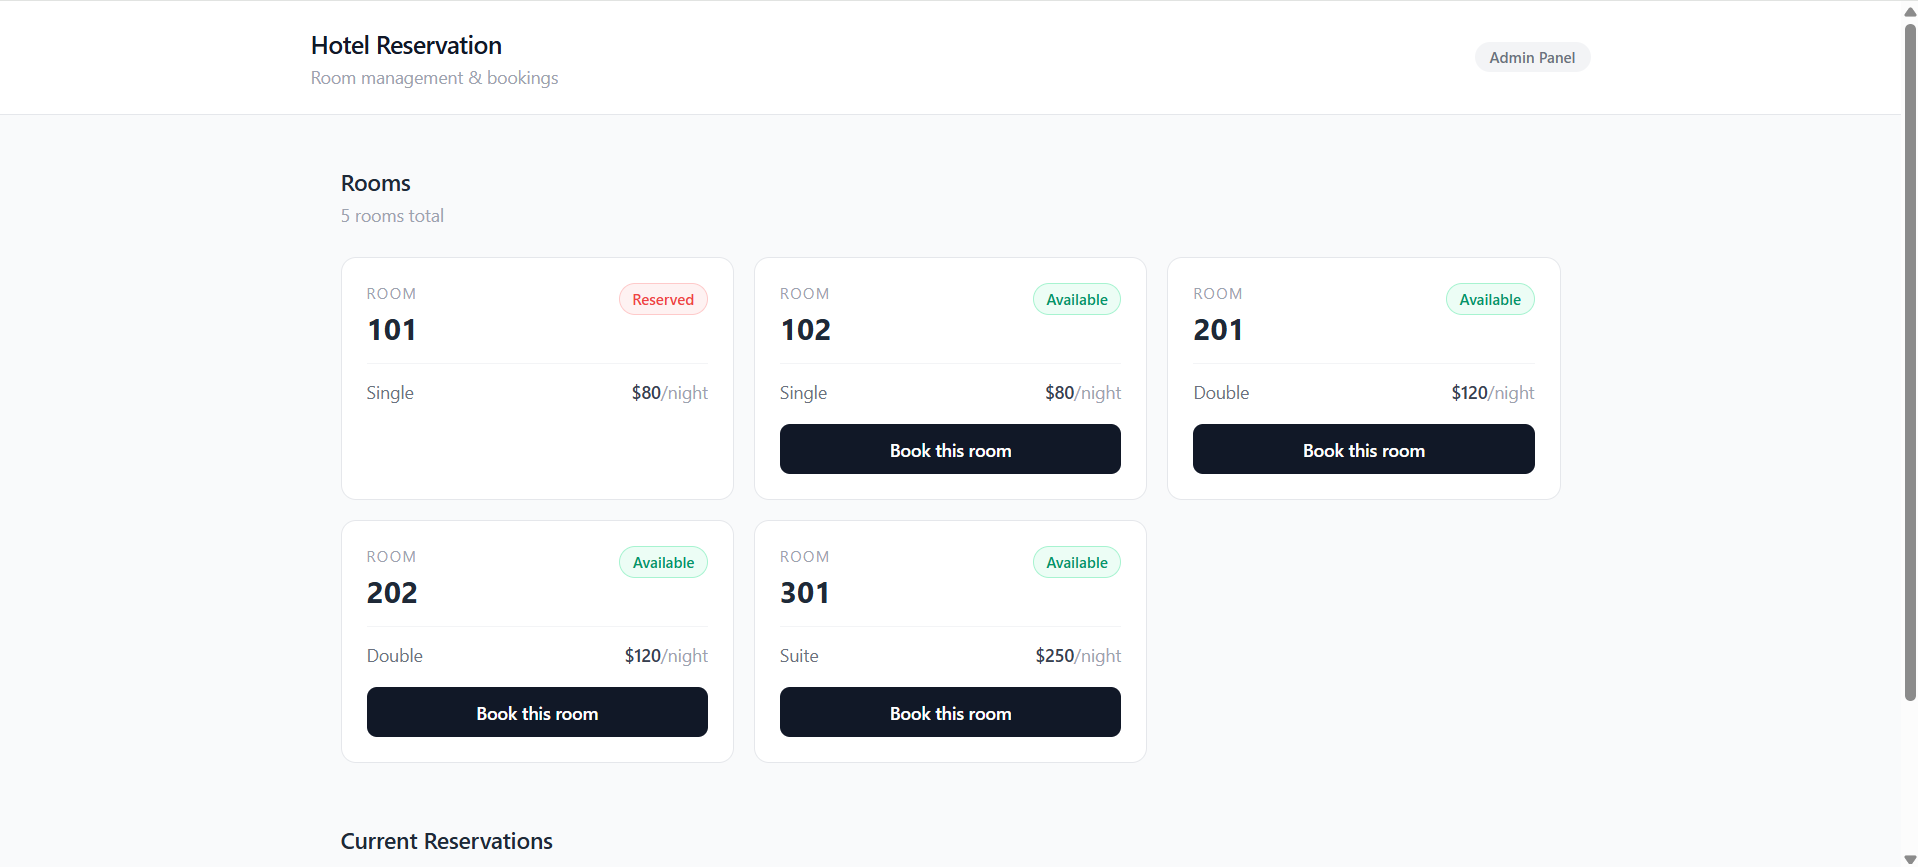
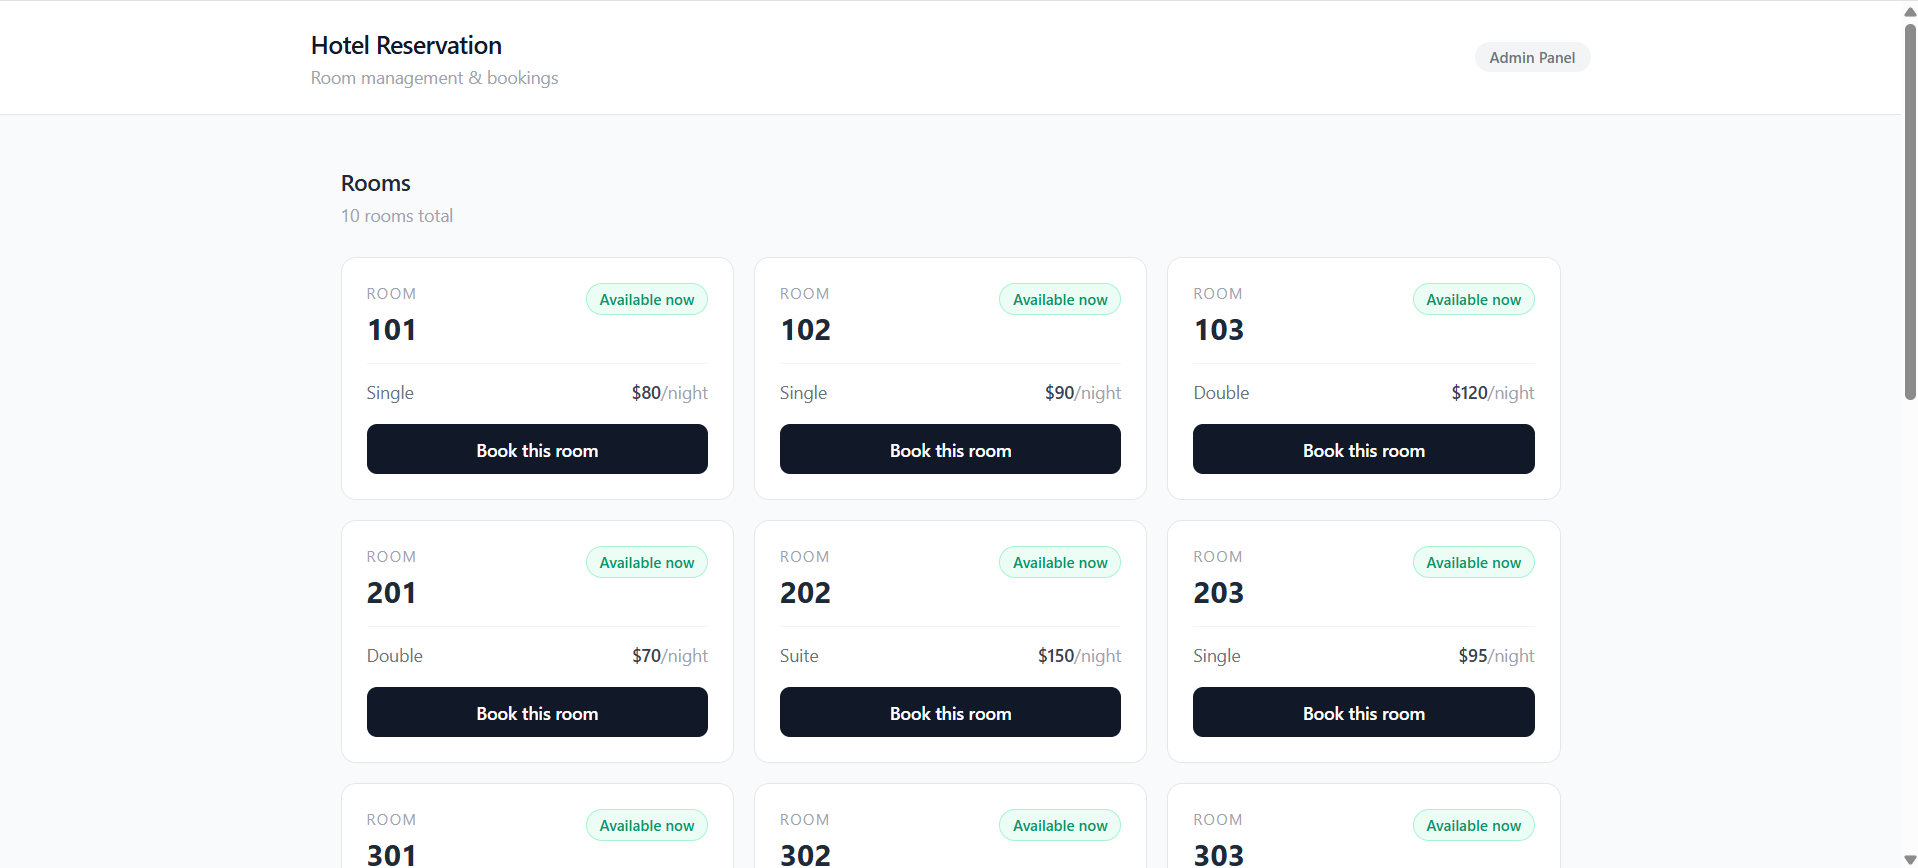
Fixed the single room - single reservation only issue

diff --git a/src/components/RoomList.jsx b/src/components/RoomList.jsx
@@ -31,23 +31,24 @@ export default function RoomList({ onSelectRoom }) {
                   ? "bg-emerald-50 text-emerald-600 border-emerald-200"
                   : "bg-red-50 text-red-500 border-red-200"
               }`}>
-                {room.isAvailable ? "Available" : "Reserved"}
+                {room.isAvailable ? "Available now" : "Occupied now"}
               </span>
             </div>
 
             <div className="flex items-center justify-between text-sm text-gray-500 border-t border-gray-100 pt-3">
               <span>{room.type}</span>
-              <span className="font-semibold text-gray-700">${room.pricePerNight}<span className="font-normal text-gray-400">/night</span></span>
+              <span className="font-semibold text-gray-700">
+                ${room.pricePerNight}
+                <span className="font-normal text-gray-400">/night</span>
+              </span>
             </div>
 
-            {room.isAvailable && (
-              <button
-                onClick={() => onSelectRoom(room)}
-                className="w-full mt-1 bg-gray-900 hover:bg-gray-700 text-white text-sm font-medium py-2.5 rounded-lg transition-colors"
-              >
-                Book this room
-              </button>
-            )}
+            <button
+              onClick={() => onSelectRoom(room)}
+              className="w-full mt-1 bg-gray-900 hover:bg-gray-700 text-white text-sm font-medium py-2.5 rounded-lg transition-colors"
+            >
+              Book this room
+            </button>
           </div>
         ))}
       </div>

diff --git a/public/index.html b/public/index.html
@@ -9,7 +9,7 @@
       name="description"
       content="Web site created using create-react-app"
     />
-    <title>React App</title>
+    <title>Hotel Reservation System</title>
   </head>
   <body>
     <noscript>You need to enable JavaScript to run this app.</noscript>

diff --git a/README.md b/README.md
@@ -49,13 +49,13 @@ hotel-frontend/
 - Fully responsive layout
 
 ## Screenshot of the main page
-![Screenshot of the result](image.png)
+![Screenshot of the main page](image.png)
 
 ## Screenshot of the register form 
 ![Screenshot of the form](image-1.png)
 
 ## Screenshot of the current reservations
-![Screenshot of current reservations](image-2.png)
+![Screenshot of the current reservations](image-2.png)
 ## Notes
 
 - API base URL is hardcoded to `http://localhost:5138` — update in component files if deploying
